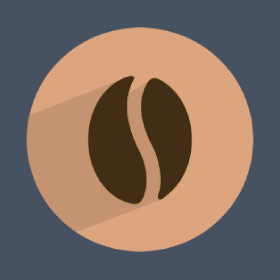
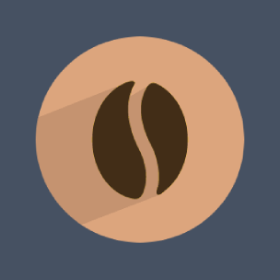
Change the coffee shop image size

diff --git a/index.html b/index.html
@@ -114,7 +114,7 @@
 
         <div class="wrapper-projects">
             <figure>
-                <a href="https://sauloveigr.github.io/coffee-shop/" target="_blank" rel="external"><img class="card -image" src="assets/coffee-bean-icon2.png" alt=""></a>
+                <a href="https://sauloveigr.github.io/coffee-shop/" target="_blank" rel="external"><img class="card" src="assets/coffee-bean-icon2.png" alt=""></a>
                 <figcaption class="caption">Coffee Shop</figcaption>
             </figure>   
 
